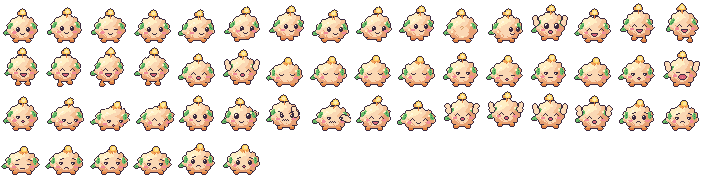
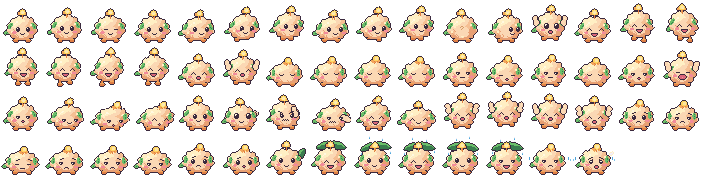
fpet v10.2（遊測 40fe202 P2-1）：烤 leaf_umbrella_in／leaf_umbrella（撐葉）＋shiver（打冷震 ×3）；懸浮讀 snapshot.sys12.wx 一日一抽天氣 → 落雨 IDLE 撐葉、霧／冬間中打冷震；bridge 天氣變即寫＋測試

Changed region(s): [[0.375, 0.7955, 0.875, 0.9943]]

diff --git a/src/floating-pet-mvp/android/app/src/main/java/hk/vizard/glimmer/fpet/PetSys12.kt b/src/floating-pet-mvp/android/app/src/main/java/hk/vizard/glimmer/fpet/PetSys12.kt
@@ -16,7 +16,10 @@ object PetSys12 {
     data class Surp(val on: Map<String, Boolean>, val waterH: Int, val sleepAt: String, val ts: Long,
                     val dropMinH: Double, val dropMaxH: Double, val perDay: Int, val dropShowSec: Int, val day: String, val room: Int,
                     val waterFromH: Int, val waterToH: Int, val sleepWinMin: Int, val showSec: Int, val lines: Map<String, List<String>>)
-    data class Snap(val egg: Boolean, val bond: Int, val tier: Int, val voice: Voice, val surp: Surp, val shards: Int)
+    /** v10.2 天氣（snapshot.sys12.wx）：days = 今日起 7 日一日一抽（dayKey→clear/overcast/rain/fog）；manual = DEV／?weather= 覆蓋。 */
+    data class Wx(val days: Map<String, String>, val manual: String?, val season: String?, val shiverMinSec: Double, val shiverMaxSec: Double,
+                  val shiverBase: Double, val fogMul: Double, val winterMul: Double)
+    data class Snap(val egg: Boolean, val bond: Int, val tier: Int, val voice: Voice, val surp: Surp, val shards: Int, val wx: Wx? = null)
 
     /** 有效設定（snapshot vs 懸浮本地改動：後改贏）。 */
     data class Settings(val on: Map<String, Boolean>, val waterH: Int, val sleepAt: String, val ts: Long)
@@ -34,9 +37,30 @@ object PetSys12 {
                     d.optDouble("minH", 2.0), d.optDouble("maxH", 4.0), d.optInt("perDay", 0), d.optInt("showSec", 30), d.optString("day", ""), d.optInt("room", 0),
                     w?.optInt("fromH", 9) ?: 9, w?.optInt("toH", 22) ?: 22, s.optInt("sleepWinMin", 60), s.optInt("showSec", 6),
                     SURP_KEYS.associateWith { strs(ln?.optJSONArray(it)) }),
-                o.optInt("shards", 0))
+                o.optInt("shards", 0), parseWx(o.optJSONObject("wx")))
         }
     } catch (e: Exception) { null }
+
+    fun parseWx(o: JSONObject?): Wx? = try {
+        if (o == null) null else {
+            val d = o.optJSONObject("days"); val days = HashMap<String, String>(); if (d != null) for (k in d.keys()) days[k] = d.optString(k, "clear")
+            val sh = o.optJSONObject("shiver"); val ev = sh?.optJSONArray("everySec")
+            Wx(days, o.optString("manual", "").takeIf { it.isNotEmpty() && it != "null" }, o.optString("season", "").takeIf { it.isNotEmpty() && it != "null" },
+                ev?.optDouble(0, 25.0) ?: 25.0, ev?.optDouble(1, 50.0) ?: 50.0, sh?.optDouble("base", 0.25) ?: 0.25, sh?.optDouble("fogMul", 2.0) ?: 2.0, sh?.optDouble("winterMul", 2.0) ?: 2.0)
+        }
+    } catch (e: Exception) { null }
+
+    /** 而家天氣：manual 贏；否則 days[今日]；過咗 7 日／冇 snapshot → 晴（唔亂撐葉）。 */
+    fun weatherAt(w: Wx?, nowMs: Long): String = w?.manual ?: w?.days?.get(dayKey(nowMs)) ?: "clear"
+    /** 打冷震機率（照 sys12ui：霧／冬先有，base×mul，上限 1）。 */
+    fun shiverChance(w: Wx?, weather: String): Double {
+        if (w == null) return 0.0
+        val mul = (if (weather == "fog") w.fogMul else 1.0) * (if (w.season == "winter") w.winterMul else 1.0)
+        return if (mul > 1.0) minOf(1.0, w.shiverBase * mul) else 0.0
+    }
+    fun shiverNextSec(w: Wx?, r: Double): Double = (w?.shiverMinSec ?: 25.0) + r * ((w?.shiverMaxSec ?: 50.0) - (w?.shiverMinSec ?: 25.0))
+    /** IDLE 用邊個 clip：落雨＋atlas 有 leaf_umbrella → 撐葉（光卵／瞓覺唔撐，由 caller 判斷）。 */
+    fun idleClip(weather: String, has: (String) -> Boolean): String = if (weather == "rain" && has("leaf_umbrella")) "leaf_umbrella" else "idle"
 
     fun settings(s: Surp?, local: Settings?): Settings? {
         val snap = s?.let { Settings(it.on, it.waterH, it.sleepAt, it.ts) }

diff --git a/src/floating-pet-mvp/android/app/src/test/java/hk/vizard/glimmer/fpet/PetSys12Test.kt b/src/floating-pet-mvp/android/app/src/test/java/hk/vizard/glimmer/fpet/PetSys12Test.kt
@@ -8,6 +8,7 @@ import org.junit.Assert.assertNull
 import org.junit.Assert.assertTrue
 import org.junit.Before
 import org.junit.Test
+import java.io.File
 import java.util.Calendar
 import java.util.TimeZone
 
@@ -70,5 +71,37 @@ class PetSys12Test {
         assertEquals(1000L, PetSys12.settings(s, loc.copy(ts = 500))!!.ts)
         assertEquals(loc, PetSys12.settings(null, loc)); assertEquals(true, PetSys12.settings(s, null)!!.on["drop"])
         assertEquals("w2", PetSys12.line(s, "water", 0.9)); assertNull(PetSys12.line(s, "nope", 0.0))
+    }
+
+    // ── v10.2（遊測 40fe202 P2-1）：落雨撐葉／霧冬打冷震 ──
+    private fun wx(manual: String? = null, season: String = "autumn") = JSONObject(json).put("wx", JSONObject("""{"days":{"2026-11-01":"rain","2026-11-02":"fog","2026-11-03":"clear"},
+      "manual":${if (manual == null) "null" else "\"$manual\""},"season":"$season","shiver":{"everySec":[25,50],"base":0.25,"fogMul":2,"winterMul":2}}"""))
+    @Test fun weatherFromSnapshot() {
+        val w = PetSys12.parse(wx())!!.wx!!
+        assertEquals("rain", PetSys12.weatherAt(w, at(2026, 11, 1, 0, 5))); assertEquals("rain", PetSys12.weatherAt(w, at(2026, 11, 1, 23, 55)))   // 成日
+        assertEquals("fog", PetSys12.weatherAt(w, at(2026, 11, 2, 9))); assertEquals("clear", PetSys12.weatherAt(w, at(2026, 11, 9, 9)))         // 過咗 7 日 → 晴
+        assertEquals("fog", PetSys12.weatherAt(PetSys12.parse(wx("fog"))!!.wx, at(2026, 11, 1, 9)))                                              // DEV manual 贏
+        assertNull(snap().wx); assertEquals("clear", PetSys12.weatherAt(null, at(2026, 11, 1, 9)))                                              // 舊 snapshot 冇 wx → 晴
+    }
+    @Test fun rainPlaysLeafUmbrella() {
+        val has = setOf("idle", "leaf_umbrella", "leaf_umbrella_in", "shiver")
+        assertEquals("leaf_umbrella", PetSys12.idleClip("rain") { it in has }); assertEquals("idle", PetSys12.idleClip("fog") { it in has })
+        assertEquals("idle", PetSys12.idleClip("rain") { it == "idle" })   // 光卵／舊 atlas 冇 clip → idle
+    }
+    @Test fun shiverFogOrWinter() {
+        val a = PetSys12.parse(wx())!!.wx; val win = PetSys12.parse(wx(season = "winter"))!!.wx
+        assertEquals(0.5, PetSys12.shiverChance(a, "fog"), 1e-9); assertEquals(0.0, PetSys12.shiverChance(a, "clear"), 1e-9)
+        assertEquals(0.5, PetSys12.shiverChance(win, "clear"), 1e-9); assertEquals(1.0, PetSys12.shiverChance(win, "fog"), 1e-9)
+        assertEquals(25.0, PetSys12.shiverNextSec(a, 0.0), 1e-9); assertEquals(50.0, PetSys12.shiverNextSec(a, 1.0), 1e-9)
+    }
+    @Test fun bakedAtlasHasRainClips() {
+        val dir = listOf(File("src/main/assets/pet/evo"), File("app/src/main/assets/pet/evo")).first { it.isDirectory }
+        val js = dir.listFiles { f -> f.name.endsWith(".json") && f.name != "pet_evo_egg.json" }!!; assertEquals(21, js.size)
+        for (f in js) {
+            val c = JSONObject(f.readText()).getJSONObject("clips")
+            assertTrue(f.name, c.getJSONObject("leaf_umbrella").getBoolean("loop") && c.getJSONObject("leaf_umbrella").getJSONArray("frames").length() == 4)
+            assertTrue(f.name, !c.getJSONObject("leaf_umbrella_in").getBoolean("loop") && c.getJSONObject("leaf_umbrella_in").getJSONArray("frames").length() == 2)
+            assertTrue(f.name, !c.getJSONObject("shiver").getBoolean("loop") && c.getJSONObject("shiver").getJSONArray("frames").length() == 12)
+        }
     }
 }

diff --git a/src/floating-pet-mvp/android/app/src/main/java/hk/vizard/glimmer/fpet/PetOverlayService.kt b/src/floating-pet-mvp/android/app/src/main/java/hk/vizard/glimmer/fpet/PetOverlayService.kt
@@ -385,6 +385,7 @@ class PetOverlayService : Service() {
             St.IDLE -> {
                 stTimer -= dt
                 if (now - lastInteract > dozeMs) { doze(); return }
+                tickWeather(dt); if (st != St.IDLE) return
                 if (stTimer <= 0) idleNext()
             }
             St.EMOTE -> { stTimer -= dt; if (stTimer <= 0 && (clip?.loop == true || clipDone())) { val n = emoteNext; emoteNext = null; if (n != null) n() else toIdle(1.5f) } }
@@ -447,7 +448,33 @@ class PetOverlayService : Service() {
         tickSys12(dt)
     }
 
-    private fun toIdle(t: Float) { st = St.IDLE; play("idle"); stTimer = t }
+    private fun toIdle(t: Float) { st = St.IDLE; playIdle(); stTimer = t }
+
+    // ── v10.2（遊測 40fe202 P2-1）：落雨 IDLE → 撐葉（leaf_umbrella_in 開葉一次 → leaf_umbrella loop）；霧／冬 → 間中打冷震（shiver ×3）。
+    //    天氣嚟自 snapshot.sys12.wx（JS 一日一抽、今日起 7 日；DEV 覆蓋 = manual），每 10 秒重讀；冇／舊 snapshot → 晴，照舊 idle。
+    private var wxAt = 0L; private var wxNow = "clear"; private var wxSnap: PetSys12.Wx? = null; private var shiverT = 30f
+    private fun curWeather(): String {
+        val now = System.currentTimeMillis()
+        if (now - wxAt > 10_000L) { wxAt = now; val sn = PetPrefs.snapshotSys12(this); wxSnap = if (sn == null || sn.egg) null else sn.wx; wxNow = PetSys12.weatherAt(wxSnap, now) }
+        return wxNow
+    }
+    private fun idleName() = PetSys12.idleClip(curWeather()) { atlas.clips.containsKey(it) }
+    private fun playIdle() {
+        val n = idleName()
+        if (n == "leaf_umbrella") { if (clip?.name != "leaf_umbrella") { play(if (atlas.clips.containsKey("leaf_umbrella_in")) "leaf_umbrella_in" else n); Log.i(TAG, "rain → leaf_umbrella") } }
+        else play(n)
+    }
+    private fun tickWeather(dt: Float) {
+        if (clip?.name == "leaf_umbrella_in" && clipDone()) { play("leaf_umbrella"); return }
+        val want = idleName(); val cur = clip?.name
+        val umb = cur == "leaf_umbrella" || cur == "leaf_umbrella_in"
+        if ((want == "leaf_umbrella") != umb) { playIdle(); return }   // 天氣轉咗 → 即刻換
+        shiverT -= dt
+        if (shiverT <= 0f) {
+            shiverT = PetSys12.shiverNextSec(wxSnap, Random.nextDouble()).toFloat()
+            if (!umb && atlas.clips.containsKey("shiver") && Random.nextDouble() < PetSys12.shiverChance(wxSnap, wxNow)) { Log.i(TAG, "shiver ($wxNow)"); emote("shiver", 0f) { toIdle(1.5f) } }
+        }
+    }
 
     private var sideSit = false
     private fun startWalk() {

diff --git a/src/floating-pet-mvp/tools/fpet-bridge.test.js b/src/floating-pet-mvp/tools/fpet-bridge.test.js
@@ -72,6 +72,9 @@ const needs = (o) => Object.assign({ hunger: 80, mood: 80, clean: 80, energy: 80
   x12.surp.drop.room = 4; r.tick(2000); ok(r.writes.length === m0 + 2, '今日星星碎餘額變 → 即寫');
   x12.bond.tier = 3; r.tick(2000); ok(r.writes.length === m0 + 3, '親密 tier 升 → 即寫');
   r.tick(2000); ok(r.writes.length === m0 + 3, 'v5 冇變 → 唔寫');
+  x12.wx = { days: { '2026-11-01': 'clear' }, manual: null, season: 'autumn' }; r.tick(2000); ok(r.writes.length === m0 + 4 && r.writes[m0 + 3].sys12.wx.days['2026-11-01'] === 'clear', 'v10.2：snap.sys12.wx 天氣出現 → 即寫');
+  x12.wx.manual = 'rain'; r.tick(2000); ok(r.writes.length === m0 + 5 && r.writes[m0 + 4].sys12.wx.manual === 'rain', 'v10.2：DEV 轉落雨（manual）→ 即寫（懸浮撐葉）');
+  r.tick(2000); ok(r.writes.length === m0 + 5, 'v10.2：天氣冇變 → 唔寫');
   // 舊 www 冇 sys12Apply：systems12 item 照丟（唔當互動加 mood）
   g = { state: { stage: 'adult', form: 'soft', needs: needs({ mood: 50 }), sleeping: false }, save() {} };
   r = run(g, [{ t: Date.now(), k: 'drop' }, { t: Date.now(), k: 'tap' }]); await new Promise(s => setImmediate(s)); await new Promise(s => setImmediate(s));

diff --git a/src/floating-pet-mvp/tools/fpet-bridge.js b/src/floating-pet-mvp/tools/fpet-bridge.js
@@ -53,7 +53,7 @@
   function sigOf(g) {
     var st = statusOf(g) || {}, ov = g.evo && g.evo.overlayInfo ? g.evo.overlayInfo() : {}, s = g.state || {};
     var inf = st.info || {}, x = sys12Of(g) || {}, xs = x.surp || {}, xb = x.bond || {};
-    return [formOf(s), ov.sizeDp, ov.evoForm || '-', st.moodBand, !!st.sleeping, st.urgent || '-', !!st.egg, inf.stage || '-', inf.days == null ? '-' : inf.days, !!inf.unwell, !!inf.fadeReady, xb.tier == null ? '-' : xb.tier, xs.ts || 0, xs.drop ? xs.drop.room : '-', xs.drop ? xs.drop.day : '-', x.egg ? 1 : 0].join('|');
+    return [formOf(s), ov.sizeDp, ov.evoForm || '-', st.moodBand, !!st.sleeping, st.urgent || '-', !!st.egg, inf.stage || '-', inf.days == null ? '-' : inf.days, !!inf.unwell, !!inf.fadeReady, xb.tier == null ? '-' : xb.tier, xs.ts || 0, xs.drop ? xs.drop.room : '-', xs.drop ? xs.drop.day : '-', x.egg ? 1 : 0, x.wx ? (x.wx.manual || '') + JSON.stringify(x.wx.days || {}) + (x.wx.season || '') : '-'].join('|');   // v10.2：天氣／DEV 覆蓋一變即寫
   }
   function maybeWrite() { var g = G(); if (!g || !g.state) return; if (sigOf(g) !== lastSig) writeSnapshot(); }
   var busy = false;

diff --git a/src/floating-pet-mvp/tools/bake_evo_atlas.py b/src/floating-pet-mvp/tools/bake_evo_atlas.py
@@ -20,7 +20,11 @@ EVO = os.path.join(SRC, 'art/evo6')
 
 # 懸浮窗 PetOverlayService 用到嘅 clip（同舊 atlas 一樣；picked_up_enter 冇 evo 全幀 → fallback picked_up）
 CLIPS = ['idle', 'walk', 'turn_back', 'picked_up', 'emo_happy', 'sleep_loop', 'fall_asleep', 'wake',
-         'sniff', 'swat', 'cheer_jump', 'droop', 'emo_hungry']
+         'sniff', 'swat', 'cheer_jump', 'droop', 'emo_hungry',
+         'leaf_umbrella_in', 'leaf_umbrella', 'shiver']   # v10.2（遊測 40fe202 P2-1）：systems12 撐葉／打冷震
+# 懸浮專用切法（跟遊戲 data.js SYS_CLIPS）：leaf_umbrella 遊戲 loopRange [2,5] → 拆 _in（0–1 開葉，一次）＋ loop（2–5）；
+# shiver 遊戲 repeat 3、唔 loop → 烤成 3 次重覆、loop=false。
+CUT = {'leaf_umbrella_in': ('leaf_umbrella', 0, 2, False, 1), 'leaf_umbrella': ('leaf_umbrella', 2, None, True, 1), 'shiver': ('shiver', 0, None, False, 3)}
 ALIAS = {'evo_egg': {'emo_happy': 'tap'}}      # 光卵：點一下＝tap（遊戲 behavior 光卵輕點）
 GLOW_TINT, GLOW_I = (0xFF, 0xEF, 0xC4), 0.8   # data.js face.bulb.moods.neutral
 COLS = 16
@@ -54,10 +58,13 @@ def bake(form, F, glow):
     anchors = json.load(open(fa_p))['anchors'] if os.path.exists(fa_p) else {}
     cells, keyIdx, clips, fallback = [], {}, {}, []
     for name in CLIPS:
-        src = ALIAS.get(form, {}).get(name, name)
+        src = ALIAS.get(form, {}).get(name, name); cut = CUT.get(name)
+        if cut: src = cut[0]
         if src not in an: fallback.append(name); continue
         A = an[src]; out = []
-        for k, fn in enumerate(A['frames']):
+        seq = list(enumerate(A['frames']))
+        if cut: seq = seq[cut[1]:cut[2]] * cut[4]
+        for k, fn in seq:
             f = fr[fn]; r = f['frame']
             cell = Image.new('RGBA', (S, S), (0, 0, 0, 0))
             cell.paste(sheet.crop((r['x'], r['y'], r['x'] + r['w'], r['y'] + r['h'])), (f['spriteSourceSize']['x'], f['spriteSourceSize']['y']))
@@ -70,7 +77,7 @@ def bake(form, F, glow):
             if key not in keyIdx: keyIdx[key] = len(cells); cells.append(cell)
             i = keyIdx[key]
             out.append({'i': i, 'x': (i % COLS) * S, 'y': (i // COLS) * S, 'px': f['pivotPx']['x'], 'py': f['pivotPx']['y']})
-        clips[name] = {'fps': A['fps'], 'loop': bool(A.get('loop')), 'pivot': 'grab' if A.get('pivot') == 'grab' else 'feet', 'frames': out}
+        clips[name] = {'fps': A['fps'], 'loop': cut[3] if cut else bool(A.get('loop')), 'pivot': 'grab' if A.get('pivot') == 'grab' else 'feet', 'frames': out}
         if src != name: clips[name]['src'] = src
     rows = (len(cells) + COLS - 1) // COLS
     atlas = Image.new('RGBA', (COLS * S if len(cells) >= COLS else len(cells) * S, rows * S), (0, 0, 0, 0))
